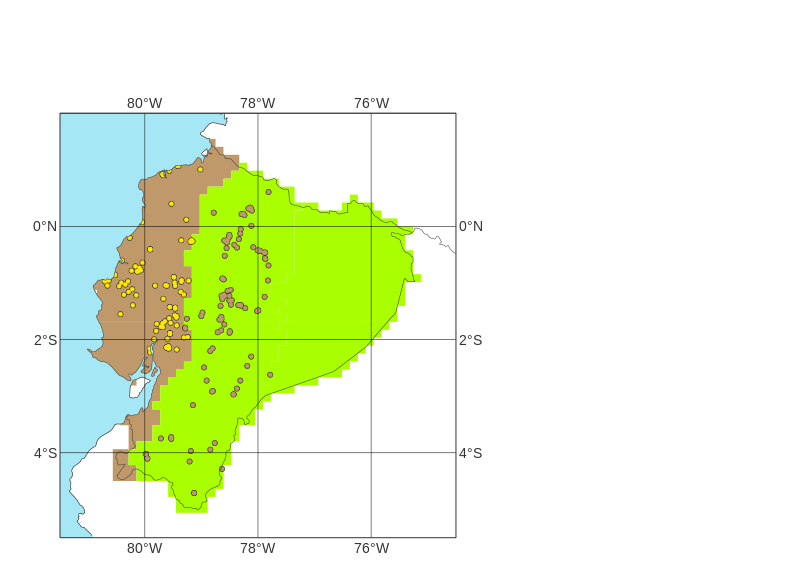
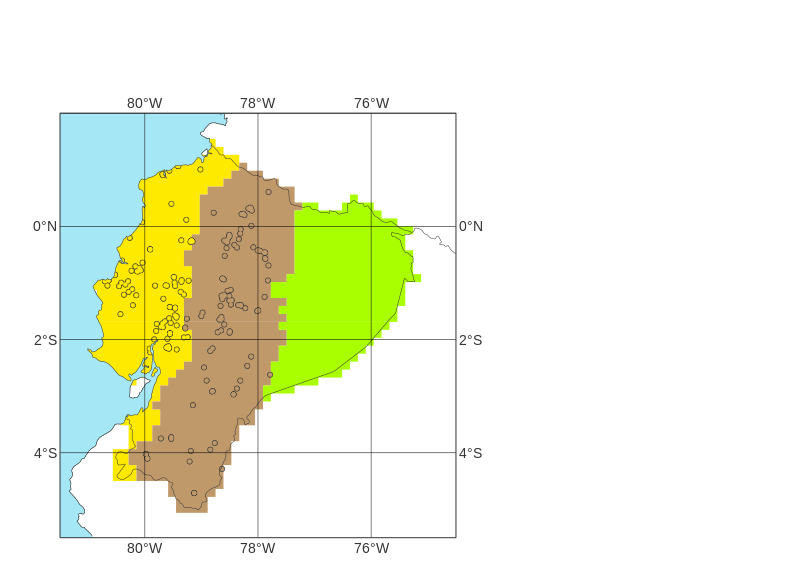
Corrected the map plots of the point flood observations.

Changed region(s): [[0.0938, 0.2403, 0.375, 0.9311]]

diff --git a/Scripts/Processed/02_Plot_PointFR_EFFCI.py b/Scripts/Processed/02_Plot_PointFR_EFFCI.py
@@ -46,6 +46,9 @@ Mask = mv.read(FileIN_Mask)
 # Reading the cleaned point flood reports
 FileIN = Git_repo + "/" + FileIN
 PointFR = pd.read_csv(FileIN)
+
+# Sorting the region codes for plotting
+RegionCode_list = (np.array(([0] + RegionCode_list), dtype=float) + 0.1).tolist()
  
 # Selecting the point flood reports for the years of interest
 for Year in Year_list: 
@@ -61,7 +64,6 @@ for Year in Year_list:
             PointFR_EFFCI = PointFR_Year.loc[PointFR_Year["EFFCI"] >= EFFCI]
             
             # Replacing the regions' names with the regions' codes
-            RegionCode_list = (np.array(([0] + RegionCode_list), dtype=float) + 0.1).tolist()
             for indRegion in range(len(RegionName_list)):
                   
                   RegionName = RegionName_list[indRegion]
